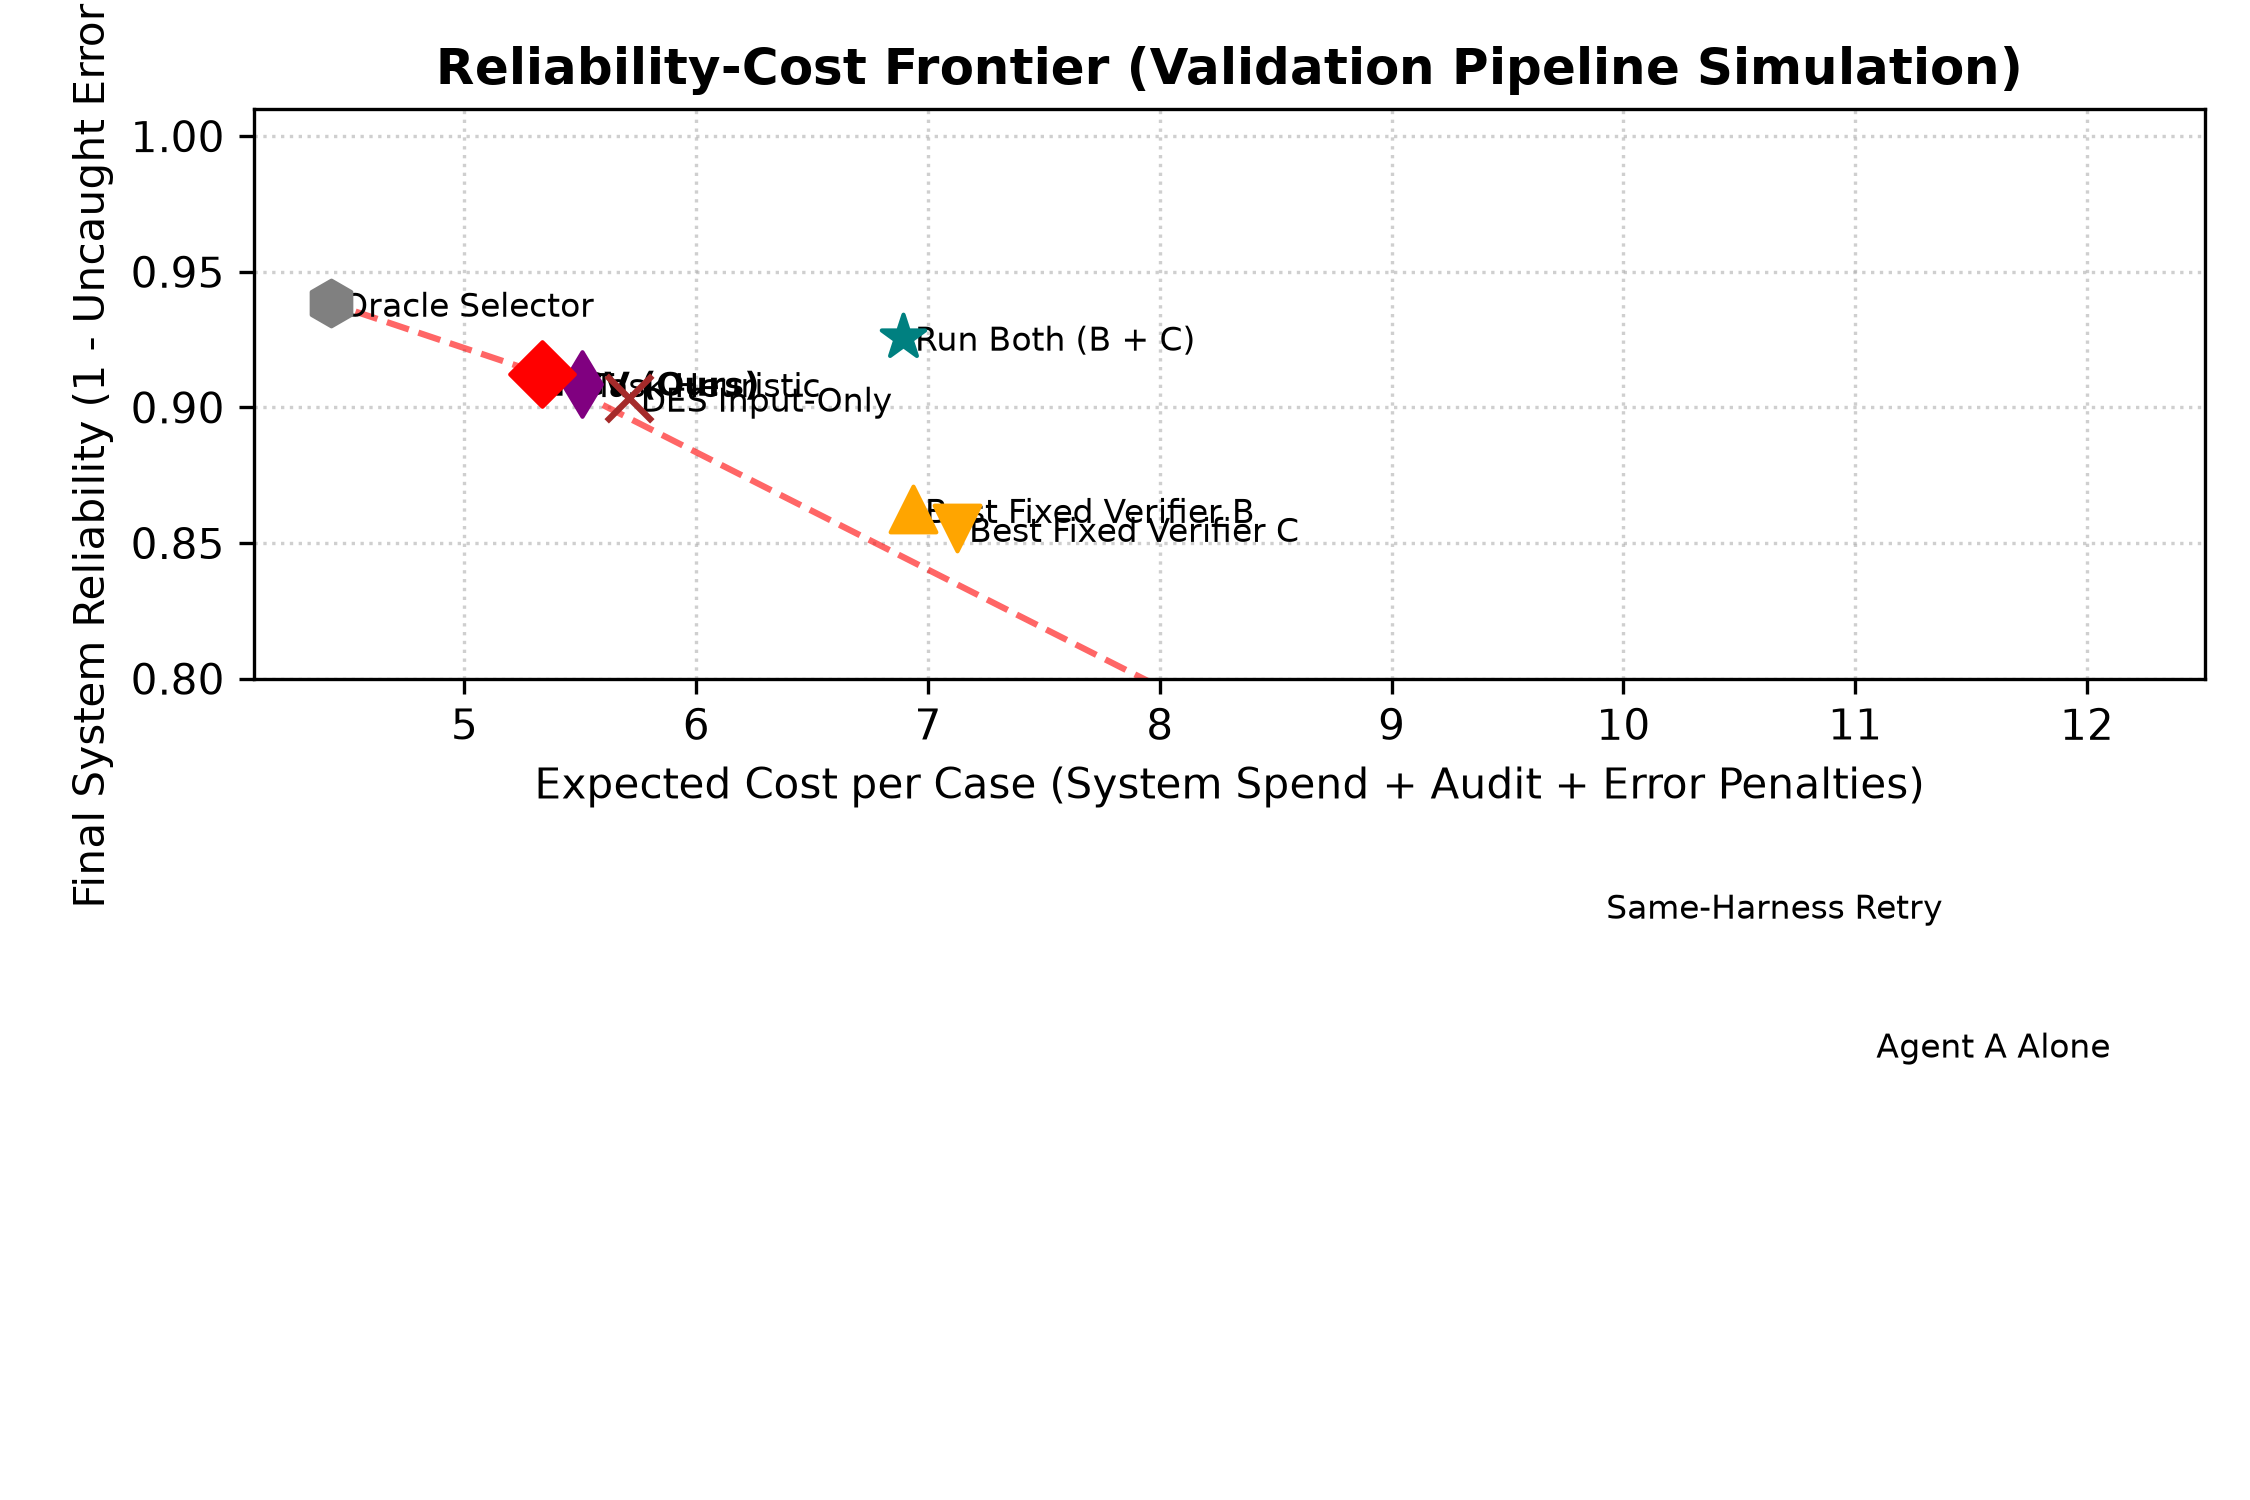
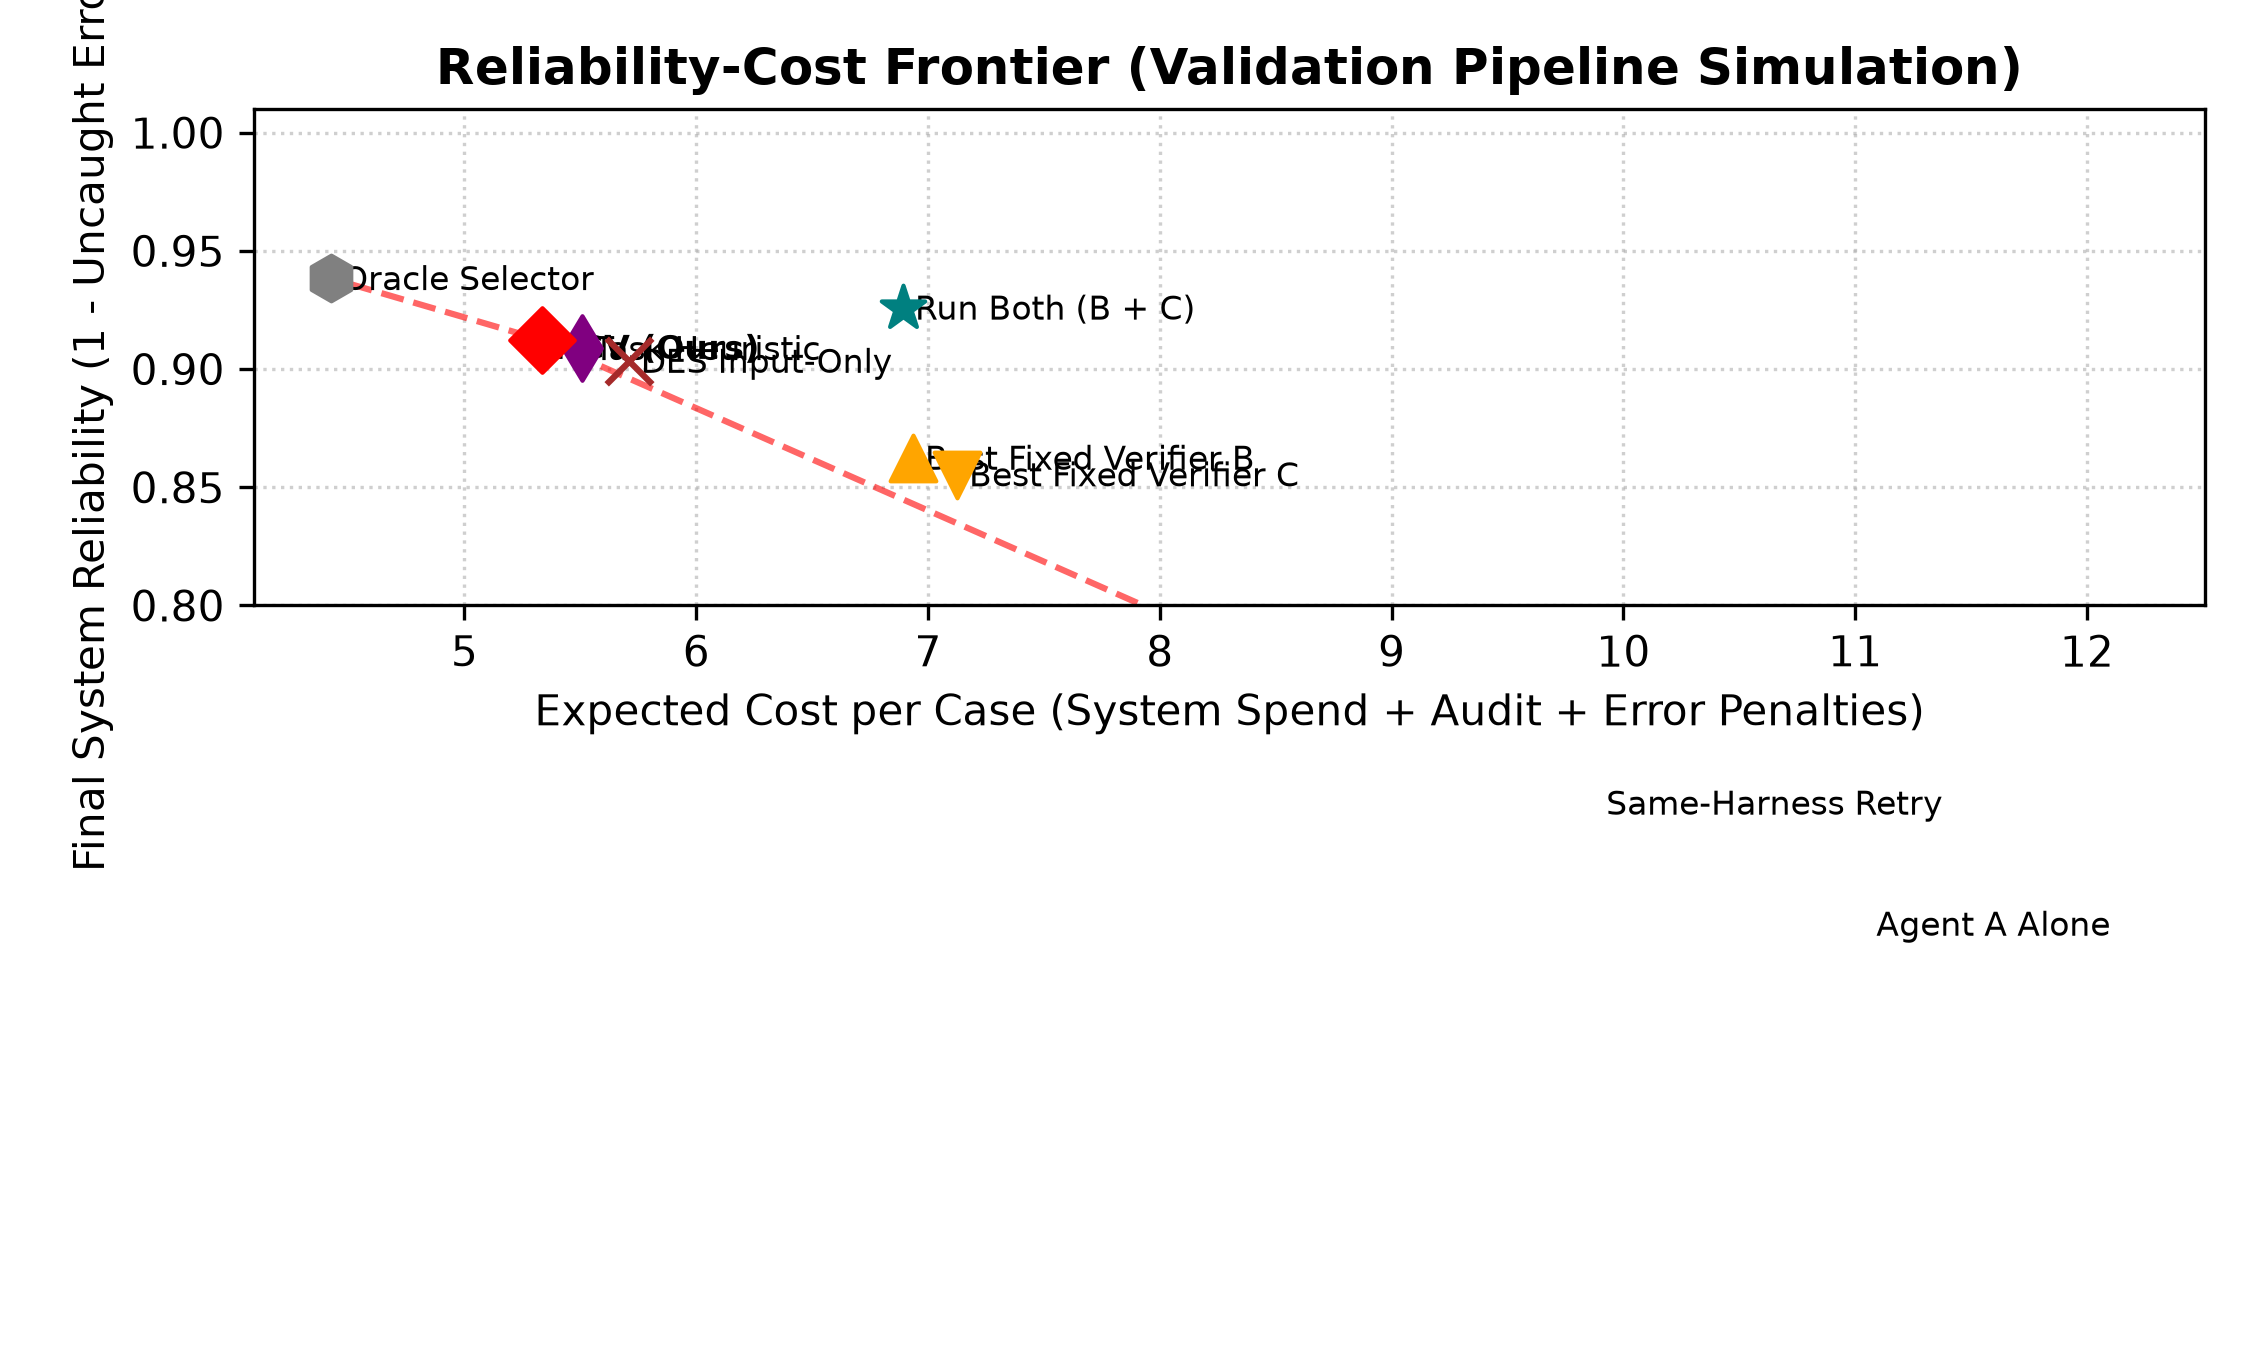
Fix alignment of Figure 1 subfigures by matching figure sizes and using top alignment [t] in LaTeX

diff --git a/paper.tex b/paper.tex
@@ -332,7 +332,7 @@ To validate our evaluation pipeline and understand how PGV behaves under varying
 
 \begin{figure}[h]
     \centering
-    \begin{subfigure}[b]{0.49\textwidth}
+    \begin{subfigure}[t]{0.49\textwidth}
         \centering
         \IfFileExists{figures/cost_reliability.pdf}{%
             \includegraphics[width=\textwidth]{figures/cost_reliability.pdf}%
@@ -343,7 +343,7 @@ To validate our evaluation pipeline and understand how PGV behaves under varying
         \label{fig:frontier_plot}
     \end{subfigure}
     \hfill
-    \begin{subfigure}[b]{0.49\textwidth}
+    \begin{subfigure}[t]{0.49\textwidth}
         \centering
         \IfFileExists{figures/power_analysis.pdf}{%
             \includegraphics[width=\textwidth]{figures/power_analysis.pdf}%

diff --git a/experiments/simulation.py b/experiments/simulation.py
@@ -504,7 +504,7 @@ def run_simulation():
     
     # Generate Plots
     # Plot 1: Expected Cost vs. Final Error Rate (Reliability-Cost Frontier)
-    plt.figure(figsize=(7.5, 5))
+    plt.figure(figsize=(7.5, 4.5))
     
     policy_styles = {
         'Agent A Alone': ('black', 'o'),
